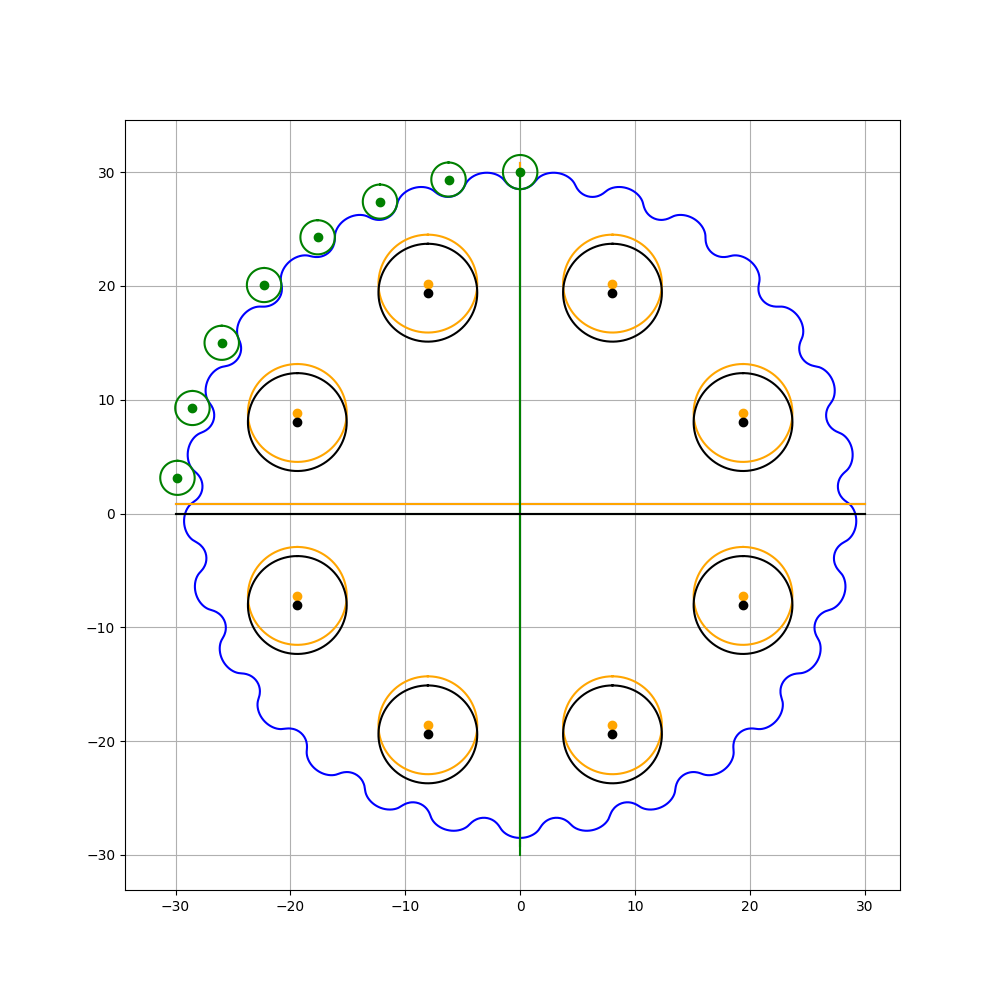
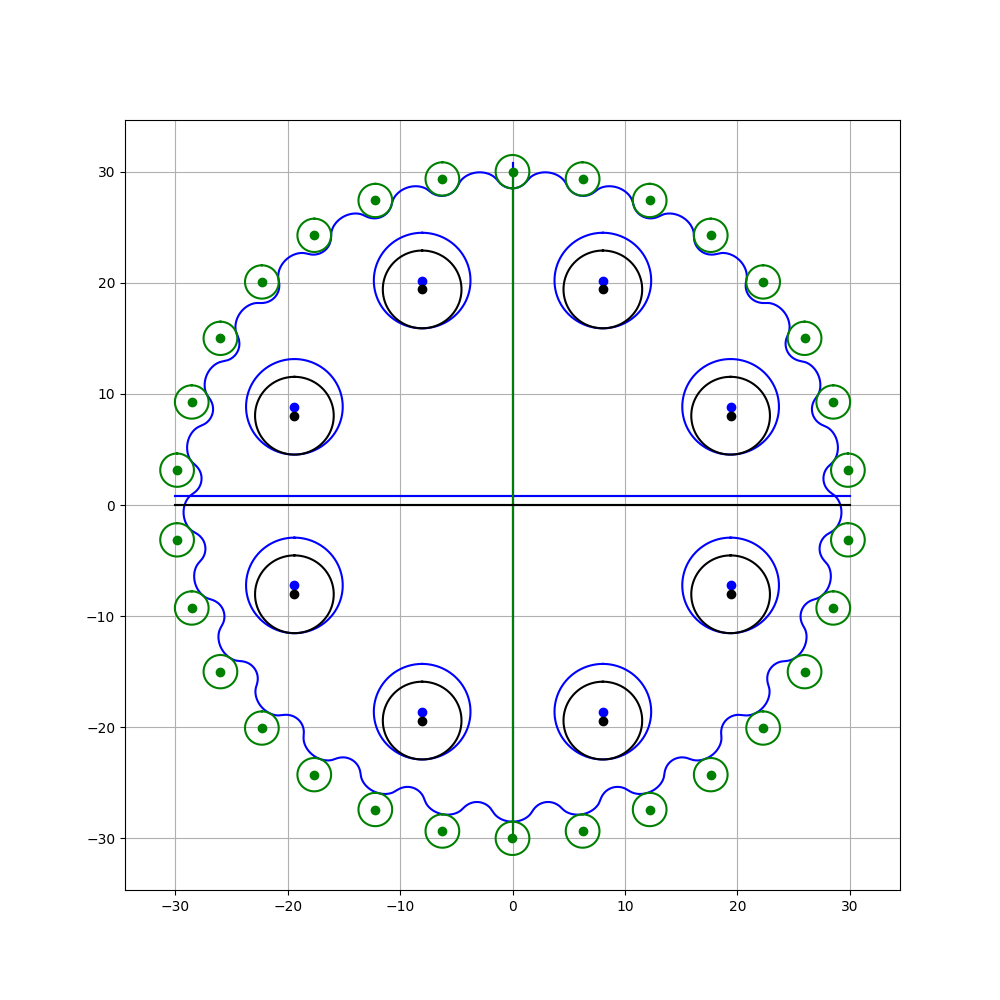
graph fixed, adding json for constants(in progress)

diff --git a/cycloidgeometry.py b/cycloidgeometry.py
@@ -2,17 +2,23 @@ import numpy as np
 import math
 from dataclasses import dataclass
 import matplotlib.pyplot as plt
+import json
 
-e = 0.8  # eccentricity distance
-rp = 1.5  # roller pin radius
-Rp = 30  # roller pin distribution radius
-zc = 29  # number of cycloidal teeth
+f = open('constants.json')
+
+e, rp, Rp, zc, rw, Rw, zw, re, rec, de, drwh, dRwh, drp, dRp = json.load(f)
+
+
+e = int(e)  # eccentricity distance
+rp = int(rp)  # roller pin radius
+Rp = int(Rp)  # roller pin distribution radius
+zc = int(zc)  # number of cycloidal teeth
 zp = zc + 1  # number of roller pins
-rw = 3.5  # output pin radius
-Rw = 21  # output pin distribution radius
+rw = int(rw)  # output pin radius
+Rw = int(Rw)  # output pin distribution radius
 rwh = rw + e  # output pin hole radius
-Rwh = Rw  # output pin hole distribution radius
-zw = 8  # number of output pins
+Rwh = Rw # output pin hole distribution radius
+zw = int(zw)  # number of output pins
 # omegain = #input drive speed
 # omegaout = #output drive speed
 
@@ -24,17 +30,17 @@ zw = 8  # number of output pins
 #     Iep = omegaout/omegain = zp/(zp - zc) = zp #theoretical transmission ratio
 
 
-re = 8  # radius of input shaft
-rec = 15  # baring radius of eccentric shaft in contact with cycloidal gear
+re = int(re)  # radius of input shaft
+rec = int(rec)  # baring radius of eccentric shaft in contact with cycloidal gear
 
 
-de = 0  # eccentric shaft deviation
+de = int(de)  # eccentric shaft deviation
 
-drwh = 0  # deviation in radius of pin-hole
-dRwh = 0  # deviation in radius of distribution of pin-hole
+drwh = int(drwh)  # deviation in radius of pin-hole
+dRwh = int(dRwh)  # deviation in radius of distribution of pin-hole
 
-drp = 0  # deviation in radius of roller pin
-dRp = 0  # deviation in radius of distribution of roller pin
+drp = int(drp)  # deviation in radius of roller pin
+dRp = int(dRp)  # deviation in radius of distribution of roller pin
 
 
 # translation matricies
@@ -161,7 +167,7 @@ class Cycloid:
 
 class OutputPinHoles:
     num_points: int = 5000
-    color: str = "Orange"
+    color: str = "Blue"
 
     def __init__(self):
         self.npins: int = zw
@@ -218,13 +224,12 @@ class RollerPins:
     color: str = "Green"
 
     def __init__(self):
-        self.npins: int = zw
+        self.npins: int = Rp
         self.tlist: np.ndarray = np.linspace(
             0, 2 * np.pi, self.num_points
         )  # independent variable for the parametric equations
         self.basis = np.array(
             [
-                np.array(
                     list(
                         map(
                             start_rollerpin,
@@ -232,7 +237,6 @@ class RollerPins:
                             [i for j in range(self.tlist.shape[0])],
                         )
                     )
-                )
                 for i in range(1, self.npins + 1)
             ]
         )  # setting fundemental points for the cycloid with the sturucture: [points, normal vector, radius of curvature]
@@ -281,7 +285,7 @@ class OutputPins:
         self.basis = np.array(
                     [list(
                         map(
-                            start_outputpinhole,
+                            start_outputpin,
                             self.tlist,
                             [i for j in range(self.num_points)],
                         )
@@ -304,7 +308,6 @@ class OutputPins:
         )
 
     def plot(self):
-        print(self.basis)
         for i in range(self.npins):
             plt.plot(self.basis[i-1,:, 1], self.basis[i-1, :, 2], color=self.color)
         plt.plot(self.xaxis[:, 0], self.xaxis[:, 1], color=self.color)
